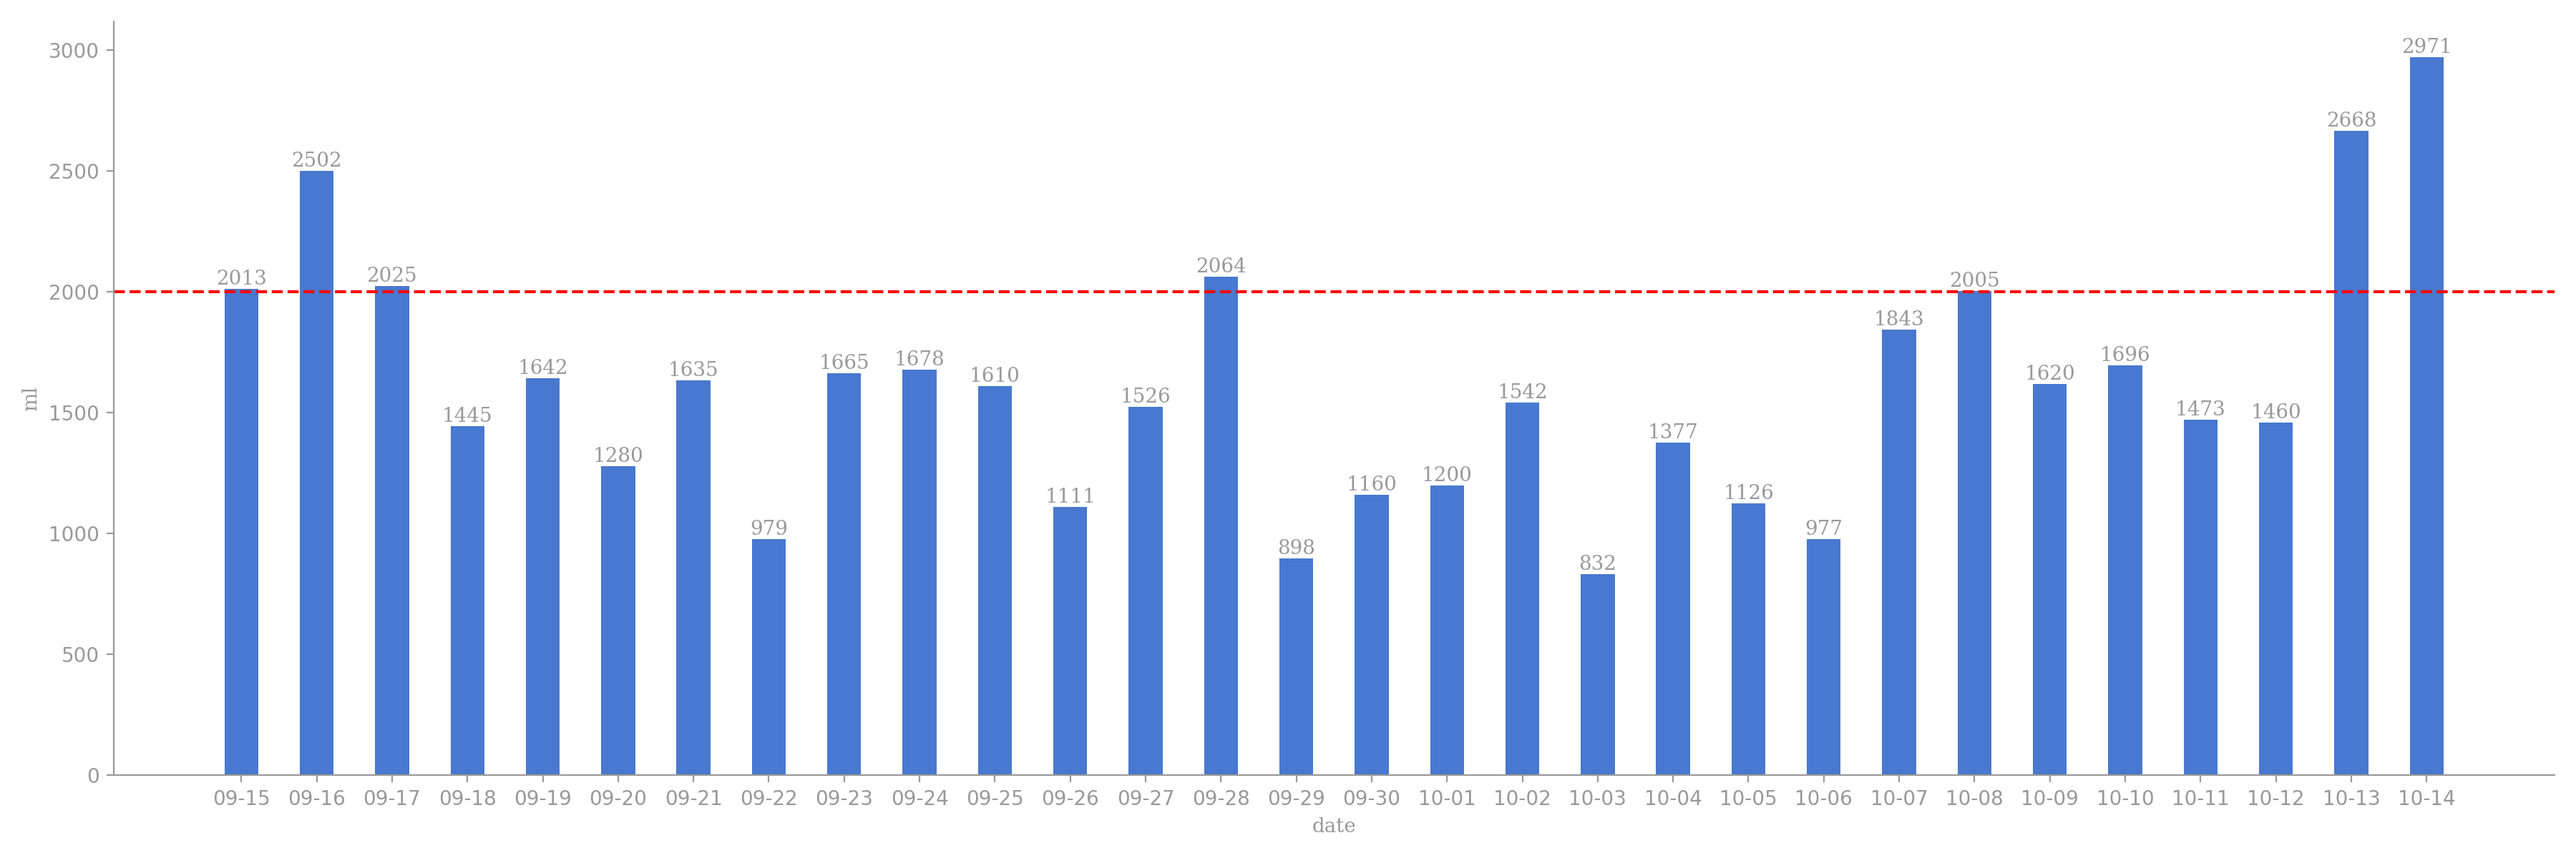
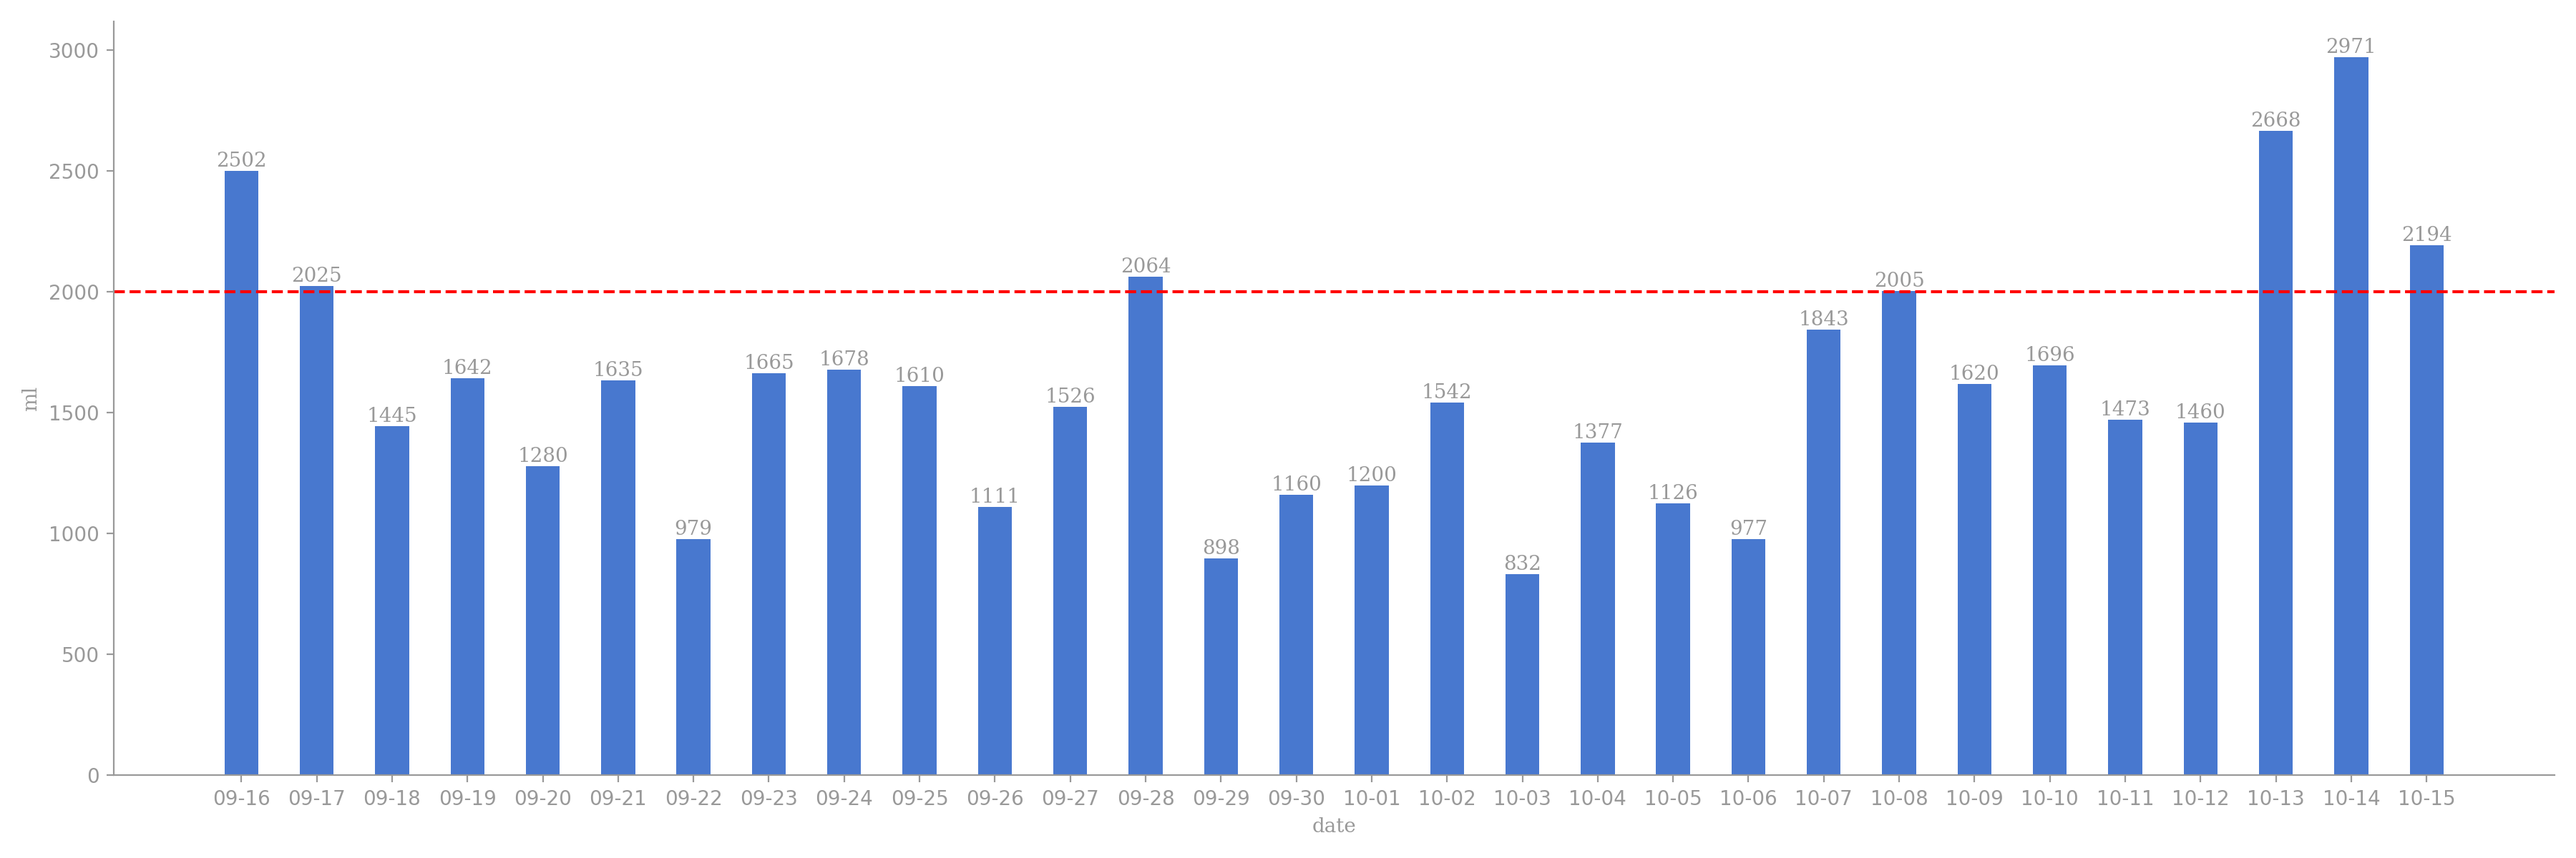
crontab auto git

Changed region(s): [[0.0622, 0.0308, 0.9644, 0.6783]]

diff --git a/README.md b/README.md
@@ -1,17 +1,3 @@
-# 今日饮水数据
-
-<div align=center>
-<img src="today.png" style="zoom: 100%;" />
-
-| 今日总饮水量 | 每小时平均饮水量 |
-| :----: | :----: |
-| 2194 | 156 |
-</div>
-
-| 日期 | 00:39:38 | 08:07:23 | 08:25:43 | 08:50:30 | 10:03:03 | 11:09:48 | 12:12:59 | 13:03:39 | 13:56:17 | 14:40:51 | 15:13:27 | 15:58:02 | 17:34:15 | 18:51:00 | 19:19:10 | 20:26:49 | 21:17:37 | 21:57:02 | 23:40:31 |
-| :----: | :----: | :----: | :----: | :----: | :----: | :----: | :----: | :----: | :----: | :----: | :----: | :----: | :----: | :----: | :----: | :----: | :----: | :----: | :----: |
-| 2025-10-15 | 43 | 214 | 104 | 79 | 203 | 104 | 200 | 87 | 164 | 91 | 83 | 79 | 72 | 163 | 102 | 23 | 200 | 94 | 89 |
-
 # 近30日饮水数据
 
 <div align=center>
@@ -19,8 +5,12 @@
 
 | 总饮水量 | 日均饮水量 |
 | :----: | :----: |
-| 48023 | 1600 |
+| 48204 | 1606 |
 </div>
+
+| 日期 | all | 00:39:38 | 08:07:23 | 08:25:43 | 08:50:30 | 10:03:03 | 11:09:48 | 12:12:59 | 13:03:39 | 13:56:17 | 14:40:51 | 15:13:27 | 15:58:02 | 17:34:15 | 18:51:00 | 19:19:10 | 20:26:49 | 21:17:37 | 21:57:02 | 23:40:31 |
+| :----: | :----: | :----: | :----: | :----: | :----: | :----: | :----: | :----: | :----: | :----: | :----: | :----: | :----: | :----: | :----: | :----: | :----: | :----: | :----: | :----: |
+| 2025-10-15 | 2194 | 43 | 214 | 104 | 79 | 203 | 104 | 200 | 87 | 164 | 91 | 83 | 79 | 72 | 163 | 102 | 23 | 200 | 94 | 89 |
 
 | 日期 | all | 00:00:18 | 07:44:42 | 08:03:24 | 08:04:41 | 08:28:40 | 08:40:45 | 08:45:57 | 09:02:12 | 09:14:42 | 09:29:01 | 10:05:13 | 10:13:01 | 10:40:42 | 11:40:01 | 11:43:16 | 12:15:49 | 13:04:49 | 13:26:26 | 13:42:58 | 13:58:55 | 15:04:53 | 15:13:43 | 15:48:17 | 16:21:29 | 17:00:09 | 17:38:57 | 18:42:14 | 19:44:37 | 20:03:19 | 21:20:57 | 23:11:58 | 23:30:08 |
 | :----: | :----: | :----: | :----: | :----: | :----: | :----: | :----: | :----: | :----: | :----: | :----: | :----: | :----: | :----: | :----: | :----: | :----: | :----: | :----: | :----: | :----: | :----: | :----: | :----: | :----: | :----: | :----: | :----: | :----: | :----: | :----: | :----: | :----: |
@@ -141,8 +131,4 @@
 | 日期 | all | 00:06:37 | 01:08:38 | 07:56:57 | 08:08:43 | 08:38:23 | 10:04:54 | 11:00:43 | 11:26:46 | 12:40:40 | 13:05:32 | 13:51:29 | 14:45:21 | 15:15:42 | 17:00:01 | 19:37:59 | 20:13:06 | 21:07:33 | 21:57:19 | 22:41:16 | 23:26:37 |
 | :----: | :----: | :----: | :----: | :----: | :----: | :----: | :----: | :----: | :----: | :----: | :----: | :----: | :----: | :----: | :----: | :----: | :----: | :----: | :----: | :----: | :----: |
 | 2025-09-15 | 2013 | 79 | 23 | 420 | 56 | 77 | 117 | 56 | 44 | 143 | 107 | 91 | 77 | 98 | 89 | 96 | 114 | 100 | 89 | 91 | 46 |
-
-| 日期 | all | 00:17:45 | 08:08:43 | 08:48:13 | 09:33:41 | 15:05:50 | 15:18:49 | 15:46:09 | 16:13:40 | 17:13:12 | 17:41:19 | 19:27:28 | 21:59:53 | 22:38:52 |
-| :----: | :----: | :----: | :----: | :----: | :----: | :----: | :----: | :----: | :----: | :----: | :----: | :----: | :----: | :----: |
-| 2025-09-14 | 1865 | 117 | 89 | 196 | 133 | 400 | 87 | 116 | 88 | 88 | 46 | 102 | 300 | 103 |
 
